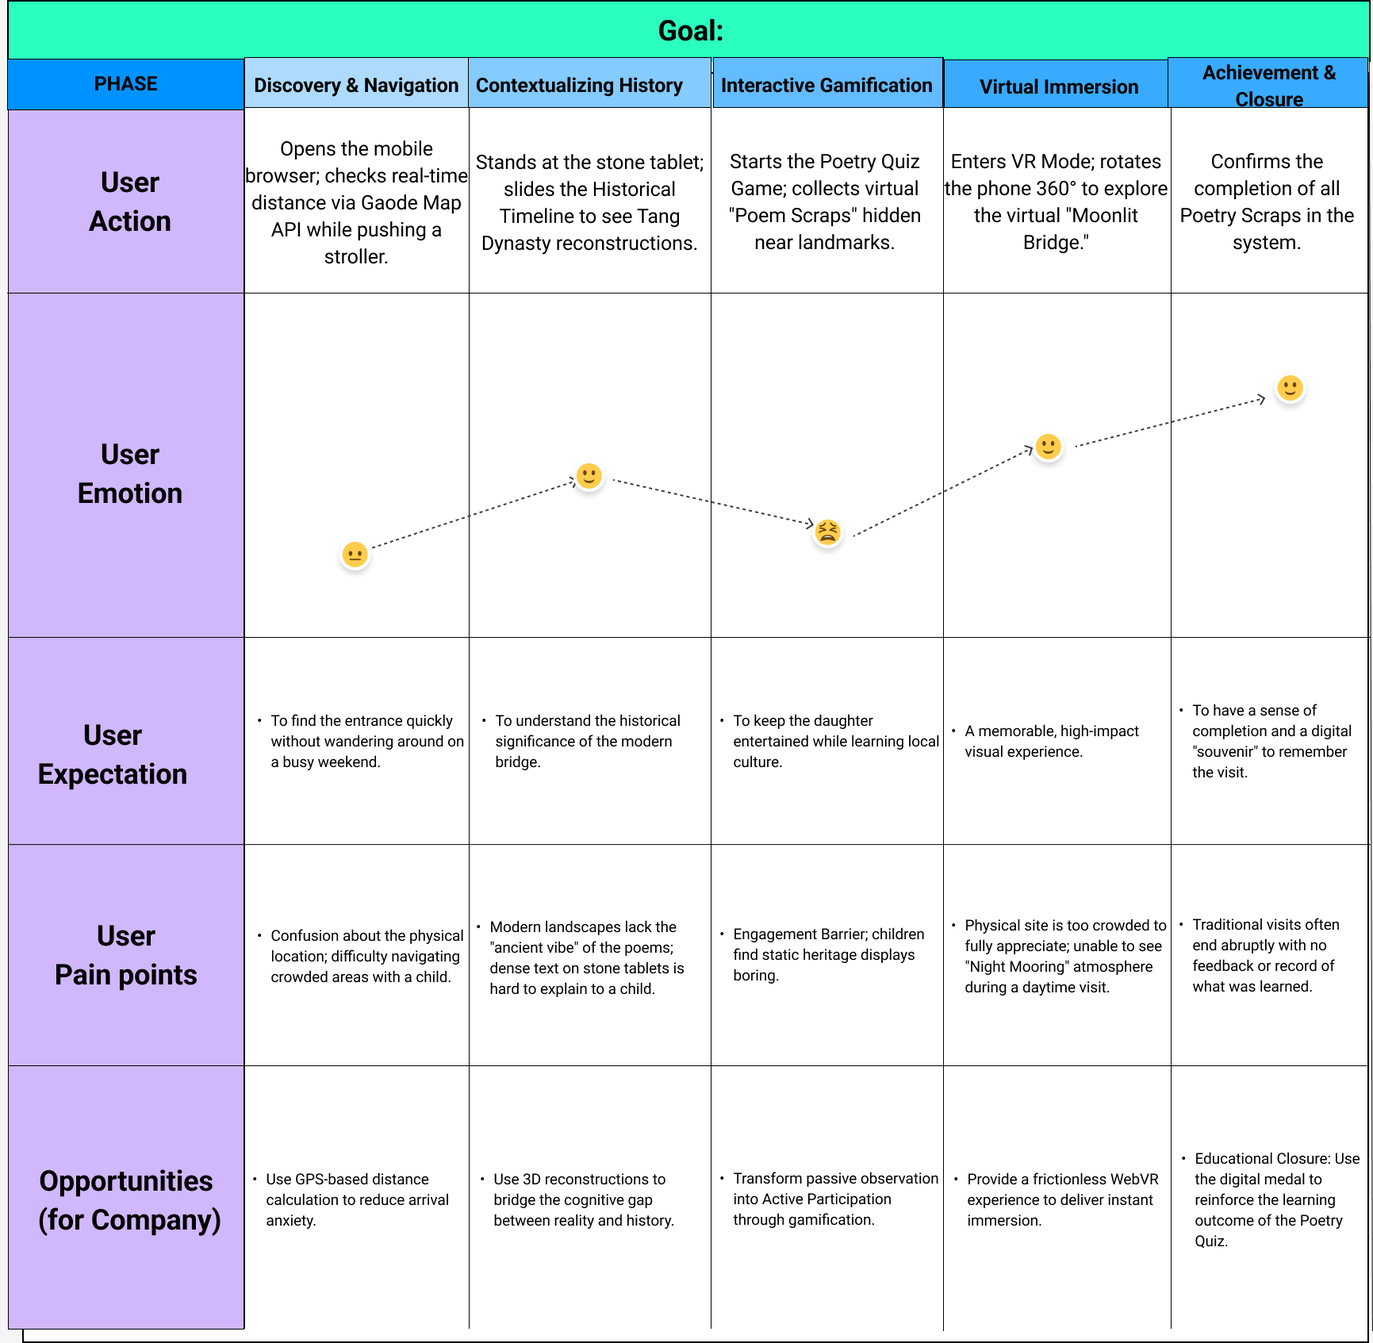
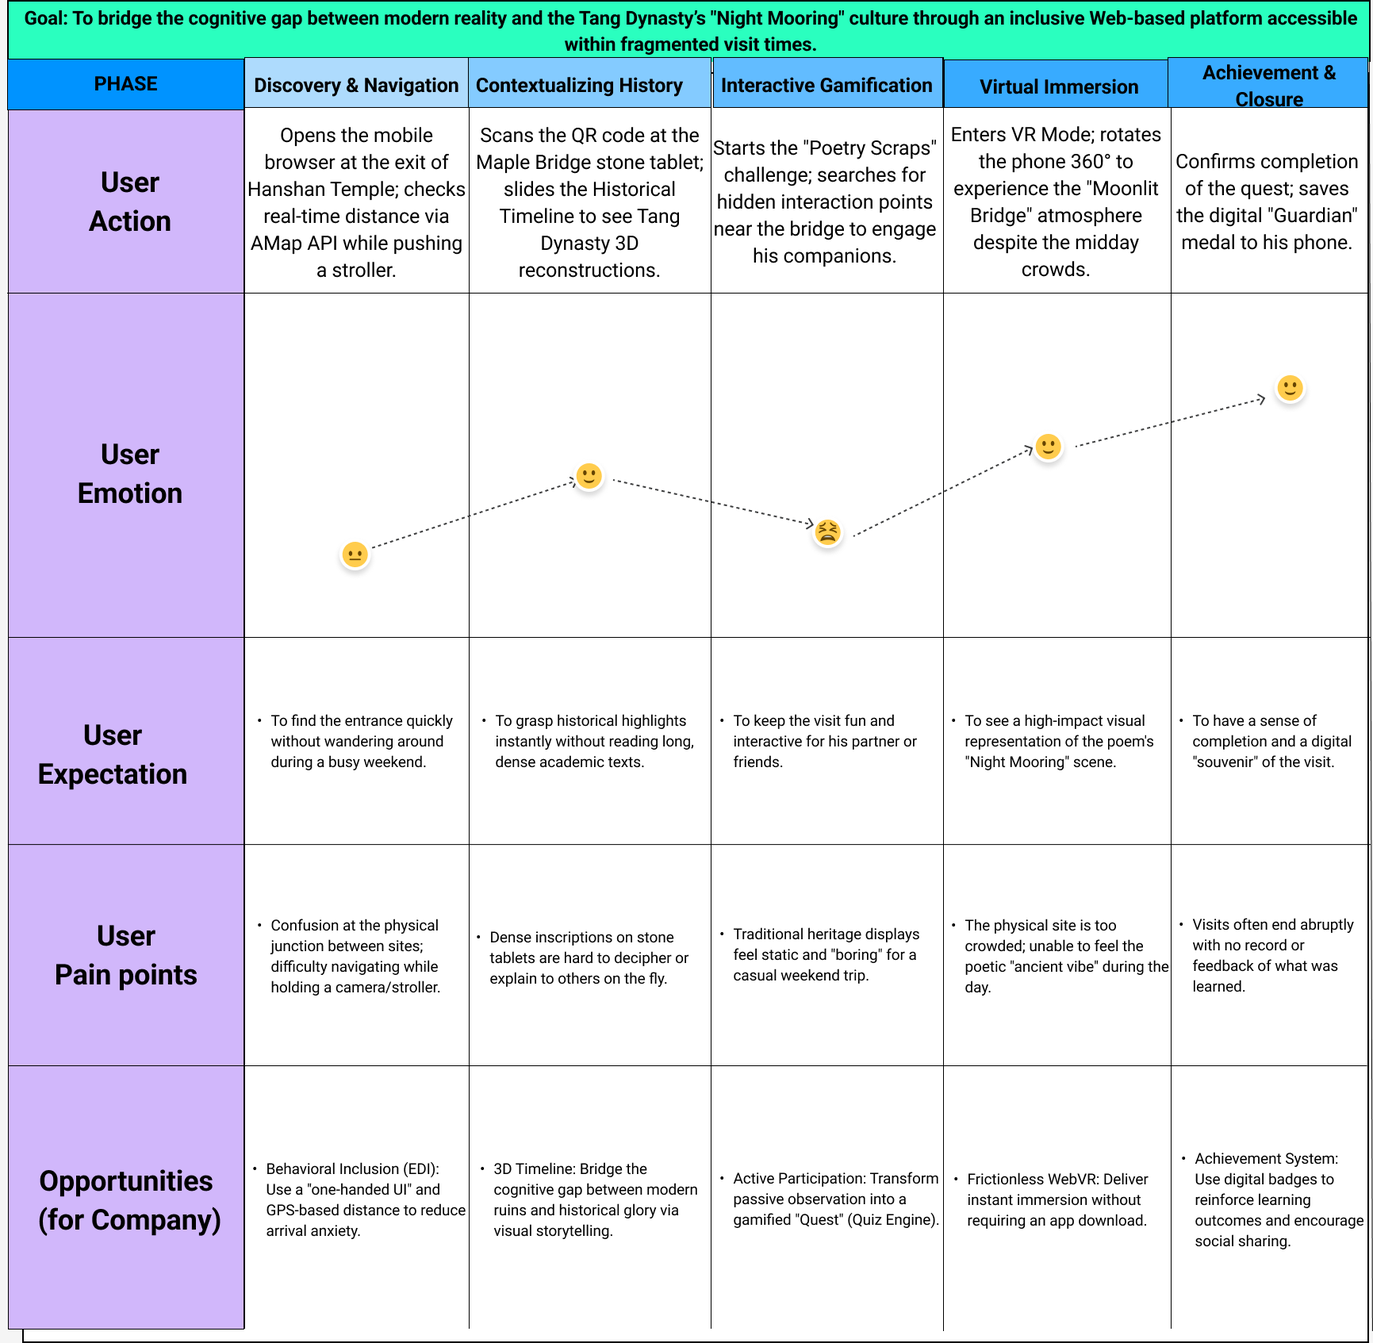
修改用户画像

diff --git a/index.html b/index.html
@@ -41,18 +41,19 @@
                 Our group chose the Digital Heritage track – specifically Suzhou's Maple Bridge – because we
                 identified a clear mismatch between the site's cultural richness and how visitors experience it
                 today. Professor Chen Wei, a historian, needs accurate, citation‑grounded reconstructions for his
-                teaching, yet existing resources are either too simplistic or visually unreliable. Li Wei, a
-                tech‑savvy father, wants his daughter to enjoy history through play, but current offerings rely on
-                dense text and static displays that neither engage a child nor fit a busy weekend schedule.
+                teaching, yet existing resources are either too simplistic or visually unreliable. Li Ming, a
+                busy young professional, wants quick, engaging highlights to share with his travel companions,
+                but current offerings rely on dense text and static displays that do not fit his highly fragmented
+                weekend schedule.
 
                 Reviewing four academic papers and four commercial products (e.g., museum audio guides, heritage
                 apps), we found three common strengths: visual appeal, factual coverage, and multi‑language support.
                 However, three critical weaknesses remained: (1) lack of verifiable historical references for
-                experts, (2) no gamified elements to retain younger users, and (3) poor responsiveness on mobile
+                experts, (2) no gamified elements to retain casual tourists, and (3) poor responsiveness on mobile
                 devices. To address these gaps, we designed “Echoes of Maple Bridge” – a playful, VR‑ready web app
                 that serves both personas: an interactive timeline with cited sources for Professor Chen, and a
-                stamp‑collection quiz with instant feedback for Li Wei and his daughter. By balancing scholarly
-                depth with family‑friendly interaction, our project demonstrates that human‑centered heritage tools
+                quick, interactive quiz with shareable achievements for Li Ming. By balancing scholarly
+                depth with frictionless interaction, our project demonstrates that human‑centered heritage tools
                 can be both rigorous and delightful.
             </p>
         </div>
@@ -195,38 +196,38 @@
         <div class="grid-2-col">
             <div class="card persona-summary">
                 <div class="persona-header">
-                    <img src="images/chen.png" alt="Professor Chen" class="avatar">
+                    <img src="images/LM.png" alt="Li Ming" class="avatar">
                     <div>
-                        <h4>Professor Chen Wei</h4>
-                        <p>History Professor, 58 yrs | Academic Authority</p>
+                        <h4>Li Ming</h4>
+                        <p>Internet Product Manager, 28 yrs | Busy Young Professional</p>
                     </div>
                 </div>
                 <div class="persona-content">
-                    <p><strong>Bio:</strong> A dedicated historian specialized in Tang Dynasty culture. He is skeptical of digital tools that lack academic rigor or citation-grounded evidence.</p>
-                    <p><strong>Goals:</strong> To access accurate 3D reconstructions for teaching and verify historical authenticity through embedded citations.</p>
-                    <p><strong>Frustrations:</strong> Unreliable visual data; complex software installations that create technical barriers in the classroom.</p>
+                    <p><strong>Bio:</strong> Based in Shanghai, visiting Suzhou for a weekend trip. <strong>Based on our on-site field research</strong>, like most visitors, he is drawn here by the famous poem "A Night Mooring by Maple Bridge" and treats the site as a quick side-trip to the adjacent Hanshan Temple. Consequently, his visit time is highly fragmented (under 2 hours). He likes photo ops and interactive experiences. <em>"I just want to open the App, and have it tell me 'Stand here, look at that, here is something fun'."</em></p>
+                    <p><strong>Goals:</strong> Understand the core story of Maple Bridge within 10 minutes, participate in fun challenges, and earn shareable achievements to engage his travel companions.</p>
+                    <p><strong>Frustrations:</strong> Hates long, text-heavy introductions. Frustrated by the high friction of downloading large native apps using unstable site Wi-Fi, preferring an instant-access web solution.</p>
                     <hr>
                     <p class="edi-highlight"><strong>🌟 EDI & Inclusive Needs:</strong>
-                        As he experiences mild <strong>visual decline</strong>, he requires high-contrast UI elements. To ensure <strong>technological inclusion</strong>, he needs a frictionless WebVR experience to avoid the complexity of standalone apps.
+                        As he frequently carries a heavy DSLR camera to take photos of his companions, he requires <strong>Behavioral Inclusion</strong> through a "one-handed UI," allowing him to easily navigate the interactive features with his free hand.
                     </p>
                 </div>
             </div>
 
             <div class="card persona-summary">
                 <div class="persona-header">
-                    <img src="images/liwei.png" alt="Li Wei" class="avatar">
+                    <img src="images/CM.png" alt="Chen Min" class="avatar">
                     <div>
-                        <h4>Li Wei</h4>
-                        <p>Software Engineer, 34 yrs | Busy Parent</p>
+                        <h4>Chen Min</h4>
+                        <p>History Grad Student & Tour Guide, 24 yrs | Academic Storyteller</p>
                     </div>
                 </div>
                 <div class="persona-content">
-                    <p><strong>Bio:</strong> A tech-savvy father visiting with his 7-year-old daughter. He values efficiency and educational engagement during limited weekend time.</p>
-                    <p><strong>Goals:</strong> Keep his daughter engaged via gamified learning; find "photo ops" and historical highlights quickly.</p>
-                    <p><strong>Frustrations:</strong> Boring, text-heavy displays; the high friction of downloading large native apps on unstable site Wi-Fi.</p>
+                    <p><strong>Bio:</strong> A graduate student at Soochow University's History Department and part-time tour guide. She has a deep understanding of the area's history and values academic accuracy. <em>"I need to know the exact historical context of Zhang Ji writing the poem, not a vague Wikipedia summary."</em></p>
+                    <p><strong>Goals:</strong> Find reliable historical citations and integrated timelines within the App to write academic notes or to share more vivid, in-depth stories with her tour groups.</p>
+                    <p><strong>Frustrations:</strong> Existing historical materials are scattered and lack integrated references. It is difficult to quickly look up the detailed background of specific historical events while actively guiding tourists on-site.</p>
                     <hr>
                     <p class="edi-highlight"><strong>🌟 EDI & Inclusive Needs:</strong>
-                        Requires <strong>behavioral inclusion</strong> through a "one-handed UI" to manage the system while attending to his child. Needs <strong>cognitive accessibility</strong> for his daughter via simplified, gamified language.
+                        Because she frequently reads historical materials on her device outdoors under bright sunlight, she requires <strong>Visual Accessibility</strong>. The system must support robust <strong>text scaling functions</strong> and high-contrast modes to prevent eye strain and ensure readability in glaring outdoor environments.
                     </p>
                 </div>
             </div>
@@ -239,11 +240,10 @@
         <div class="card">
             <h3>User Journey Map</h3>
             <div class="image-placeholder large">
-                <img src="images/Customer%20Journey%20Mapping%20template%20(Copy)%20(Community).png" alt="User Journey Map of Li Wei">
+                <img src="images/Customer%20Journey%20Mapping%20template%20(Copy)%20(Community).png" alt="User Journey Map of Li Ming">
                 <p class="caption">
-                    <strong>Figure 1: User Journey Map for Li Wei (Parent Persona).</strong>
-                    The map visualizes the transition from physical exploration to digital engagement.
-                    It highlights how our core features address specific behavioral constraints and cognitive barriers [2][4].
+                    <strong>Figure 1: User Journey Map for Li Ming (Primary Persona).</strong>
+                    The map visualizes the fragmented onsite experience of a young professional, transitioning from physical navigation to digital heritage immersion. It highlights how core features like the One-handed UI and WebVR address specific behavioral constraints (e.g., carrying a DSLR) and cognitive barriers identified during our field research. [2][4].
                 </p>
             </div>
         </div>
@@ -254,12 +254,12 @@
             <ul class="feature-list">
                 <li>
                     <strong>✅ Frictionless Web-VR Integration:</strong>
-                    Justified by the need to eliminate "App Friction". This zero-install web interface ensures <strong>technological inclusion</strong> for users like Li Wei who may have limited mobile data or device storage while on-site.
+                    Justified by the need to eliminate "App Friction". This zero-install web interface ensures <strong>technological inclusion</strong> for users like Li Ming who face unstable site Wi-Fi and limited time.
                 </li>
 
                 <li>
                     <strong>✅ High-Precision Navigation (Gaode Map API):</strong>
-                    Features real-time distance calculation and optimized pathfinding. This specifically supports <strong>behavioral inclusion</strong> for parents like Li Wei who are managing strollers, ensuring they can navigate the crowded heritage site via the most efficient, barrier-free routes.
+                    Features real-time distance calculation and optimized pathfinding. This specifically supports <strong>behavioral inclusion</strong>, ensuring users like Li Ming can navigate efficiently to the exact location without wandering around.
                 </li>
 
                 <li>
@@ -269,12 +269,12 @@
 
                 <li>
                     <strong>✅ Interactive Maple Bridge Quiz & Achievement System:</strong>
-                    A gamified module that breaks down complex history into digestible questions. By granting "Heritage Medals," it overcomes <strong>cognitive barriers</strong> for younger audiences and encourages active cultural participation.
+                    A gamified module that breaks down complex history into digestible questions. By granting "Heritage Medals," it overcomes <strong>cognitive barriers</strong> for casual tourists seeking quick engagement and encourages social sharing.
                 </li>
 
                 <li>
                     <strong>✅ High-Contrast & Scalable UI:</strong>
-                    A user interface specifically designed with high-contrast color schemes and adjustable text sizes. This supports <strong>inclusive design</strong> principles for elderly users or those with visual decline, such as Professor Chen.
+                    A user interface specifically designed with high-contrast color schemes and adjustable text sizes. This supports <strong>inclusive design</strong> principles for users reading in bright outdoor sunlight or those with visual decline, such as Professor Chen.
                 </li>
             </ul>
         </div>
@@ -336,18 +336,18 @@
                 </p>
                 <ul class="feature-list">
                     <li><strong>Immersive 360° VR Navigation:</strong> Allows users to explore the spatial layout of Maple Bridge through a frictionless, browser-based panoramic environment.</li>
-                    <li><strong>Dynamic Historical Timeline:</strong> An interactive UI enabling users (like Professor Chen) to toggle between Tang, Ming, and Modern era reconstructions with academic citations.</li>
-                    <li><strong>Gamified Achievement System:</strong> A low-cognitive-load stamp collection mini-game designed to engage younger demographics (like Li Wei's daughter) during the site visit.</li>
-                    <li><strong>Inclusive UI/UX:</strong> Features high-contrast modes and scalable typography to ensure physical and technological inclusion for users with visual decline.</li>
+                    <li><strong>Dynamic Historical Timeline:</strong> An interactive UI enabling academic users (like <strong>Chen Min</strong>) to toggle between Tang, Ming, and Modern era reconstructions with <strong>verified citations</strong>.</li>
+                    <li><strong>Gamified Achievement System:</strong> A low-cognitive-load stamp collection mini-game designed to engage casual tourists (like <strong>Li Ming</strong>) during their highly fragmented visits.</li>
+                    <li><strong>Inclusive UI/UX:</strong> Features high-contrast modes and <strong>text scaling functions</strong> to ensure readability for experts reading in bright sunlight and users with visual decline.</li>
                 </ul>
 
                 <h4>2. Proposed Design Alternatives</h4>
-                <p>During the ideation phase, we critically assessed three distinct technological architectures to deliver these functionalities. The evaluation was grounded in <strong>Human-Centric Computing (HCC)</strong> principles, specifically focusing on User Friction, Immersion, and Equality, Diversity, and Inclusion (EDI)[cite: 1].</p>
+                <p>During the ideation phase, we critically assessed three distinct technological architectures based on <strong>Human-Centric Computing (HCC)</strong> principles, specifically focusing on User Friction, Immersion, and Equality, Diversity, and Inclusion (EDI)[cite: 1].</p>
 
                 <ul class="review-list">
-                    <li><strong>Option A: Native VR Application (Standalone App).</strong> A dedicated application requiring download from an App Store. It offers the highest graphical fidelity and deepest immersion by utilizing native device hardware.</li>
-                    <li><strong>Option B: Web-Based VR (WebVR) [Selected].</strong> A lightweight, browser-based virtual reality experience accessed instantly via scanning a QR code on-site, requiring zero installation.</li>
-                    <li><strong>Option C: Physical Kiosk with Interactive VR Screen.</strong> Hardware terminals installed directly at the Maple Bridge scenic area, providing large-screen interactive VR tours without requiring users to use their own devices.</li>
+                    <li><strong>Option A: Native VR Application (Standalone App).</strong> A dedicated application requiring download. Offers high fidelity but creates high friction for short-term visitors.</li>
+                    <li><strong>Option B: Web-Based VR (WebVR) [Selected].</strong> A lightweight, zero-installation experience accessed instantly via QR code, supporting <strong>behavioral inclusion</strong> for on-site navigation.</li>
+                    <li><strong>Option C: Physical Kiosk with Interactive VR Screen.</strong> Hardware terminals installed at the site. Static and prone to queuing during peak hours.</li>
                 </ul>
 
                 <h4>3. Multi-Dimensional Comparison</h4>
@@ -364,33 +364,33 @@
                         <tbody>
                         <tr>
                             <td><strong>Technological Inclusion (EDI)</strong></td>
-                            <td class="cons">Low (Excludes users with older devices or full storage)</td>
-                            <td class="pros"><strong>High (Cross-platform, browser-agnostic)</strong></td>
-                            <td>Medium (Accessible, but physically constrained)</td>
+                            <td class="cons">Low (Excludes users with full storage or slow roaming data)</td>
+                            <td class="pros"><strong>High (Browser-agnostic; supports text scaling for Chen Min)</strong></td>
+                            <td>Medium (Physically constrained to specific locations)</td>
                         </tr>
                         <tr>
                             <td><strong>User Friction (Entry Barrier)</strong></td>
-                            <td class="cons">High (Requires cellular data download & installation)</td>
-                            <td class="pros"><strong>Zero Friction (Instant access via QR code)</strong></td>
+                            <td class="cons">High (Requires cellular data download & setup)</td>
+                            <td class="pros"><strong>Zero Friction (Instant access via QR code for Li Ming)</strong></td>
                             <td class="pros">Zero Friction (Immediate physical interaction)</td>
                         </tr>
                         <tr>
-                            <td><strong>Level of Immersion</strong></td>
-                            <td class="pros">Maximum (Supports advanced rendering)</td>
-                            <td><strong>Optimal Balance (Sufficient for storytelling)</strong></td>
-                            <td class="cons">Low (Lacks personal spatial mobility)</td>
+                            <td><strong>Behavioral Inclusion</strong></td>
+                            <td>Medium (Requires dedicated focus)</td>
+                            <td class="pros"><strong>High (Optimized for one-handed UI for DSLR users)</strong></td>
+                            <td class="cons">Low (Static; cannot be used while walking/photographing)</td>
                         </tr>
                         <tr>
                             <td><strong>Development & Deployment Cost</strong></td>
-                            <td class="cons">High (Requires iOS & Android separate builds)</td>
-                            <td class="pros"><strong>Medium (Single web codebase)</strong></td>
-                            <td class="cons">Very High (Hardware procurement & maintenance)</td>
+                            <td class="cons">High (Separate builds for iOS/Android)</td>
+                            <td class="pros"><strong>Medium (Single web codebase; agile updates)</strong></td>
+                            <td class="cons">Very High (Hardware maintenance & site footprint)</td>
                         </tr>
                         <tr>
-                            <td><strong>On-site Mobility</strong></td>
-                            <td class="pros">High (Moves with the user)</td>
-                            <td class="pros"><strong>High (Moves with the user)</strong></td>
-                            <td class="cons">Static (Fixed location, prone to queuing)</td>
+                            <td><strong>Information Depth</strong></td>
+                            <td class="pros">High (Native storage for high-res assets)</td>
+                            <td><strong>Optimal (Linked to live databases for citations)</strong></td>
+                            <td class="cons">Medium (Fixed content; difficult to update academic links)</td>
                         </tr>
                         </tbody>
                     </table>
@@ -401,10 +401,10 @@
                     Following a rigorous user-centered evaluation, we selected <strong>Option B (Web-Based VR)</strong> as our definitive architecture.
                 </p>
                 <p>
-                    While Option A provides superior graphical immersion, it introduces severe <strong>"App Friction"</strong> (the reluctance of users to download large files on cellular networks during a short tourist visit). This directly violates the behavioral needs of our persona, <strong>Li Wei</strong>, who requires immediate, on-the-go engagement for his child. Option C was rejected because fixed terminals limit on-site mobility, create queuing bottlenecks during peak tourist seasons, and raise post-pandemic hygiene concerns[cite: 2].
+                    While Option A provides superior graphical immersion, it introduces severe <strong>"App Friction"</strong>. This directly violates the behavioral needs of our primary persona, <strong>Li Ming</strong>, who treats the site as a quick 2-hour side-trip and refuses to download large files on unstable site Wi-Fi. Furthermore, the <strong>one-handed UI</strong> required for Li Ming (who often carries a DSLR) is best served by a responsive web interface.
                 </p>
                 <p>
-                    <strong>Web-Based VR</strong> stands out as the most human-centric solution. It guarantees <strong>Technological Inclusion</strong> by ensuring that any user with a standard smartphone browser can instantly access the historical reconstructions. By eliminating the installation barrier, we democratize access to the cultural heritage of Maple Bridge, successfully balancing academic depth for experts like <strong>Professor Chen</strong> with frictionless, gamified playfulness for everyday families.
+                    Option C was rejected as it fails to meet <strong>Chen Min's</strong> need for on-site mobility. As a guide, she requires an integrated timeline that moves with her and her tour group. <strong>Web-Based VR</strong> ensures <strong>Technological Inclusion</strong> by allowing any user with a smartphone to access verified citations instantly. By eliminating the installation barrier, we democratize heritage access, successfully balancing academic depth for specialists with frictionless, shareable engagement for casual visitors.
                 </p>
             </div>
         </div>

diff --git a/css/portfolio-styles.css b/css/portfolio-styles.css
@@ -567,3 +567,32 @@ footer {
 .photo-item img, .image-placeholder img {
     cursor: zoom-in !important;
 }
+
+/* 专门为 Persona 卡片定制的头部布局 */
+.persona-header-layout {
+    display: flex;
+    align-items: center;
+    gap: 15px;
+    margin-bottom: 15px;
+    text-align: left; /* 覆盖原来的居中对齐 */
+}
+
+.persona-info-text {
+    flex: 1;
+}
+
+/* 强制调整画像图片大小，使其在卡片中比例协调 */
+.persona-img {
+    width: 90px !important;  /* 稍微比 80px 大一点，更有视觉重心 */
+    height: 90px !important;
+    border-radius: var(--radius); /* 如果不喜欢圆形，可以改成方圆角 */
+    object-position: top; /* 确保李明的脸部在正中 */
+}
+
+/* 移动端适配：当屏幕变窄时，图片缩小 */
+@media (max-width: 480px) {
+    .persona-img {
+        width: 70px !important;
+        height: 70px !important;
+    }
+}
